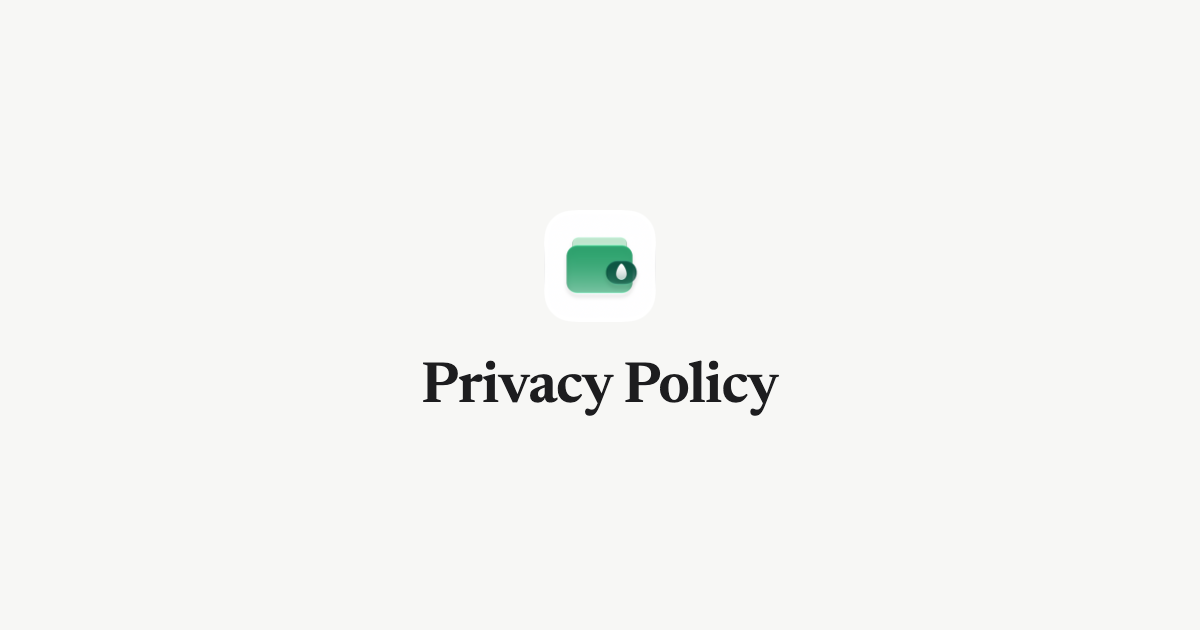
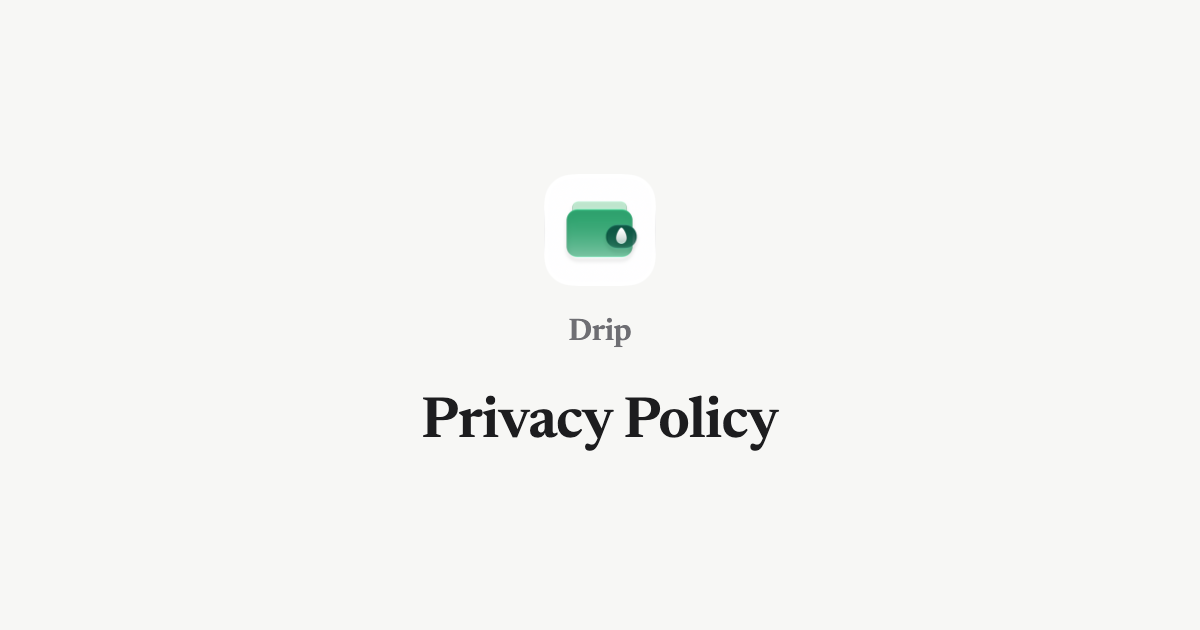
Version asset URLs, make font subsets reproducible, name the app on share cards
Stylesheet and font URLs now carry a content hash: GitHub Pages caches them for 10 minutes,
and a stale subset made new heading characters fall back to the system font. Font subsets
keep the source timestamp so identical input builds byte-identical files. Share cards show
the app name under the icon; the guide cards said only "Guide".

Changed region(s): [[0.3392, 0.573, 0.6475, 0.7238], [0.4625, 0.3016, 0.555, 0.4825], [0.4625, 0.5127, 0.5242, 0.5429]]

diff --git a/zh-Hans/guide/index.html b/zh-Hans/guide/index.html
@@ -6,5 +6,5 @@
 <meta property="og:type" content="website"><meta property="og:site_name" content="点滴记账"><meta property="og:locale" content="zh_CN"><meta property="og:title" content="使用指南 – 点滴记账"><meta property="og:description" content="模板、图标快捷菜单、小组件等功能的设置方法。"><meta property="og:url" content="https://drip.damao.io/zh-Hans/guide/"><meta property="og:image" content="https://drip.damao.io/assets/img/og-zh-Hans-guide.png"><meta property="og:image:width" content="1200"><meta property="og:image:height" content="630"><meta property="og:image:alt" content="使用指南 – 点滴记账">
 <meta name="twitter:card" content="summary_large_image"><meta name="twitter:title" content="使用指南 – 点滴记账"><meta name="twitter:description" content="模板、图标快捷菜单、小组件等功能的设置方法。"><meta name="twitter:image" content="https://drip.damao.io/assets/img/og-zh-Hans-guide.png">
 <meta name="theme-color" content="#F7F7F5" media="(prefers-color-scheme: light)"><meta name="theme-color" content="#141414" media="(prefers-color-scheme: dark)">
-<link rel="icon" href="/favicon.ico" sizes="any"><link rel="icon" href="/favicon-32.png" type="image/png" sizes="32x32"><link rel="apple-touch-icon" href="/apple-touch-icon.png"><link rel="stylesheet" href="/style.css">
-<link rel="stylesheet" href="/assets/fonts/zh-guide.css"></head><body><nav class="nav container"><a class="brand" href="/zh-Hans/"><img src="/assets/img/icon@2x.png" width="32" height="32" alt="">点滴记账</a><a class="nav-secondary" href="/zh-Hans/guide/">指南</a><a class="nav-secondary" href="/zh-Hans/#support">帮助</a><a href="/guide/" lang="en">English</a></nav><main class="guide"><h1>使用指南</h1><ul class="toc"><li><a href="#templates">模板</a></li><li><a href="#app-icon">App图标</a></li><li><a href="#widgets">小组件</a></li><li><a href="#keypad">键盘模式</a></li><li><a href="#reminder">记账提醒</a></li><li><a href="#sync">iCloud同步</a></li><li><a href="#export">导出数据</a></li><li><a href="#privacy">锁定点滴记账，隐藏金额</a></li></ul><section id="templates"><h2>模板</h2><p>打开 设置 › 模板，轻点 + 新建，再轻点 ✓ 保存。轻点模板可以编辑；轻点「编辑」后拖动可调整顺序。记账时，轻点明细页顶部的模板按钮即可<span class="keep">使用。</span></p><picture><source type="image/webp" srcset="/assets/screens/zh-Hans/04-templates@1x.webp 1x, /assets/screens/zh-Hans/04-templates@2x.webp 2x"><img class="phone" src="/assets/screens/zh-Hans/04-templates@1x.png" srcset="/assets/screens/zh-Hans/04-templates@1x.png 1x, /assets/screens/zh-Hans/04-templates@2x.png 2x" width="300" height="652" alt="模板" loading="lazy" decoding="async"></picture></section><section id="app-icon"><h2>App图标</h2><p>长按点滴记账应用图标，选择「记一笔」或前三个模板之一。在 设置 › 模板 中调整顺序，可以更换显示的<span class="keep">模板。</span></p></section><section id="widgets"><h2>小组件</h2><p>长按主屏幕空白处，轻点 编辑 › 添加小组件，搜索点滴记账，选择「分类记账」或「模板记账」，然后轻点「添加小组件」。在 设置 › 分类小组件 中选择分类。要在锁定屏幕添加「快速记账」，长按锁定屏幕，轻点 自定 › 锁定屏幕 › 添加小组件，然后选择点滴记账的「快速<span class="keep">记账」。</span></p><picture><source type="image/webp" srcset="/assets/screens/zh-Hans/08-widgets@1x.webp 1x, /assets/screens/zh-Hans/08-widgets@2x.webp 2x"><img class="phone" src="/assets/screens/zh-Hans/08-widgets@1x.png" srcset="/assets/screens/zh-Hans/08-widgets@1x.png 1x, /assets/screens/zh-Hans/08-widgets@2x.png 2x" width="300" height="652" alt="小组件" loading="lazy" decoding="async"></picture></section><section id="keypad"><h2>键盘模式</h2><p>打开 设置 › 键盘模式，选择「默认」或「效率」。「默认」像计算器一样输入小数点；「效率」从货币的最小单位开始输入，00可补两<span class="keep">个零。</span></p></section><section id="reminder"><h2>记账提醒</h2><p>打开 设置 › 记账提醒，开启「记账提醒」并设置「时间」。开启「当天已记账则跳过」，当天已有记录时就不会<span class="keep">提醒。</span></p></section><section id="sync"><h2>iCloud同步</h2><p>在登录同一Apple账户的每台iPhone上，打开 设置 › 隐私与同步 › iCloud同步。如果提示登录，请先在系统“设置”中登录<span class="keep">iCloud。</span></p></section><section id="export"><h2>导出数据</h2><p>前往 设置 › 隐私与同步 › 导出数据。所有记录会导出为CSV文件，可通过系统分享菜单<span class="keep">发送。</span></p></section><section id="privacy"><h2>锁定点滴记账，隐藏金额</h2><p>打开 设置 › 隐私与同步，开启「面容ID锁定」以锁定点滴记账。开启「小组件隐藏金额」可隐藏小组件中的<span class="keep">金额。</span></p><picture><source type="image/webp" srcset="/assets/screens/zh-Hans/07-privacy@1x.webp 1x, /assets/screens/zh-Hans/07-privacy@2x.webp 2x"><img class="phone" src="/assets/screens/zh-Hans/07-privacy@1x.png" srcset="/assets/screens/zh-Hans/07-privacy@1x.png 1x, /assets/screens/zh-Hans/07-privacy@2x.png 2x" width="300" height="652" alt="锁定点滴记账，隐藏金额" loading="lazy" decoding="async"></picture></section></main><footer class="footer container"><p><a href="/zh-Hans/guide/">指南</a> · <a href="/privacy.html">隐私政策</a> · © 2026 Xiaoyu Guan</p><a href="/guide/" lang="en">English</a></footer></body></html>
+<link rel="icon" href="/favicon.ico" sizes="any"><link rel="icon" href="/favicon-32.png" type="image/png" sizes="32x32"><link rel="apple-touch-icon" href="/apple-touch-icon.png"><link rel="stylesheet" href="/style.css?v=4f2c0e99f6">
+<link rel="stylesheet" href="/assets/fonts/zh-guide.css?v=f2eab0a8b2"></head><body><nav class="nav container"><a class="brand" href="/zh-Hans/"><img src="/assets/img/icon@2x.png" width="32" height="32" alt="">点滴记账</a><a class="nav-secondary" href="/zh-Hans/guide/">指南</a><a class="nav-secondary" href="/zh-Hans/#support">帮助</a><a href="/guide/" lang="en">English</a></nav><main class="guide"><h1>使用指南</h1><ul class="toc"><li><a href="#templates">模板</a></li><li><a href="#app-icon">App图标</a></li><li><a href="#widgets">小组件</a></li><li><a href="#keypad">键盘模式</a></li><li><a href="#reminder">记账提醒</a></li><li><a href="#sync">iCloud同步</a></li><li><a href="#export">导出数据</a></li><li><a href="#privacy">锁定点滴记账，隐藏金额</a></li></ul><section id="templates"><h2>模板</h2><p>打开 设置 › 模板，轻点 + 新建，再轻点 ✓ 保存。轻点模板可以编辑；轻点「编辑」后拖动可调整顺序。记账时，轻点明细页顶部的模板按钮即可<span class="keep">使用。</span></p><picture><source type="image/webp" srcset="/assets/screens/zh-Hans/04-templates@1x.webp 1x, /assets/screens/zh-Hans/04-templates@2x.webp 2x"><img class="phone" src="/assets/screens/zh-Hans/04-templates@1x.png" srcset="/assets/screens/zh-Hans/04-templates@1x.png 1x, /assets/screens/zh-Hans/04-templates@2x.png 2x" width="300" height="652" alt="模板" loading="lazy" decoding="async"></picture></section><section id="app-icon"><h2>App图标</h2><p>长按点滴记账应用图标，选择「记一笔」或前三个模板之一。在 设置 › 模板 中调整顺序，可以更换显示的<span class="keep">模板。</span></p></section><section id="widgets"><h2>小组件</h2><p>长按主屏幕空白处，轻点 编辑 › 添加小组件，搜索点滴记账，选择「分类记账」或「模板记账」，然后轻点「添加小组件」。在 设置 › 分类小组件 中选择分类。要在锁定屏幕添加「快速记账」，长按锁定屏幕，轻点 自定 › 锁定屏幕 › 添加小组件，然后选择点滴记账的「快速<span class="keep">记账」。</span></p><picture><source type="image/webp" srcset="/assets/screens/zh-Hans/08-widgets@1x.webp 1x, /assets/screens/zh-Hans/08-widgets@2x.webp 2x"><img class="phone" src="/assets/screens/zh-Hans/08-widgets@1x.png" srcset="/assets/screens/zh-Hans/08-widgets@1x.png 1x, /assets/screens/zh-Hans/08-widgets@2x.png 2x" width="300" height="652" alt="小组件" loading="lazy" decoding="async"></picture></section><section id="keypad"><h2>键盘模式</h2><p>打开 设置 › 键盘模式，选择「默认」或「效率」。「默认」像计算器一样输入小数点；「效率」从货币的最小单位开始输入，00可补两<span class="keep">个零。</span></p></section><section id="reminder"><h2>记账提醒</h2><p>打开 设置 › 记账提醒，开启「记账提醒」并设置「时间」。开启「当天已记账则跳过」，当天已有记录时就不会<span class="keep">提醒。</span></p></section><section id="sync"><h2>iCloud同步</h2><p>在登录同一Apple账户的每台iPhone上，打开 设置 › 隐私与同步 › iCloud同步。如果提示登录，请先在系统“设置”中登录<span class="keep">iCloud。</span></p></section><section id="export"><h2>导出数据</h2><p>前往 设置 › 隐私与同步 › 导出数据。所有记录会导出为CSV文件，可通过系统分享菜单<span class="keep">发送。</span></p></section><section id="privacy"><h2>锁定点滴记账，隐藏金额</h2><p>打开 设置 › 隐私与同步，开启「面容ID锁定」以锁定点滴记账。开启「小组件隐藏金额」可隐藏小组件中的<span class="keep">金额。</span></p><picture><source type="image/webp" srcset="/assets/screens/zh-Hans/07-privacy@1x.webp 1x, /assets/screens/zh-Hans/07-privacy@2x.webp 2x"><img class="phone" src="/assets/screens/zh-Hans/07-privacy@1x.png" srcset="/assets/screens/zh-Hans/07-privacy@1x.png 1x, /assets/screens/zh-Hans/07-privacy@2x.png 2x" width="300" height="652" alt="锁定点滴记账，隐藏金额" loading="lazy" decoding="async"></picture></section></main><footer class="footer container"><p><a href="/zh-Hans/guide/">指南</a> · <a href="/privacy.html">隐私政策</a> · © 2026 Xiaoyu Guan</p><a href="/guide/" lang="en">English</a></footer></body></html>

diff --git a/zh-Hans/index.html b/zh-Hans/index.html
@@ -6,8 +6,8 @@
 <meta property="og:type" content="website"><meta property="og:site_name" content="点滴记账"><meta property="og:locale" content="zh_CN"><meta property="og:title" content="点滴记账 – 简单账本"><meta property="og:description" content="轻点两下，完成记账。无需注册，没有广告。"><meta property="og:url" content="https://drip.damao.io/zh-Hans/"><meta property="og:image" content="https://drip.damao.io/assets/img/og-zh-Hans-landing.png"><meta property="og:image:width" content="1200"><meta property="og:image:height" content="630"><meta property="og:image:alt" content="点滴记账 – 简单账本">
 <meta name="twitter:card" content="summary_large_image"><meta name="twitter:title" content="点滴记账 – 简单账本"><meta name="twitter:description" content="轻点两下，完成记账。无需注册，没有广告。"><meta name="twitter:image" content="https://drip.damao.io/assets/img/og-zh-Hans-landing.png">
 <meta name="theme-color" content="#F7F7F5" media="(prefers-color-scheme: light)"><meta name="theme-color" content="#141414" media="(prefers-color-scheme: dark)">
-<link rel="icon" href="/favicon.ico" sizes="any"><link rel="icon" href="/favicon-32.png" type="image/png" sizes="32x32"><link rel="apple-touch-icon" href="/apple-touch-icon.png"><link rel="stylesheet" href="/style.css">
-<link rel="stylesheet" href="/assets/fonts/zh-landing.css"></head><body><nav class="nav container"><a class="brand" href="/zh-Hans/"><img src="/assets/img/icon@2x.png" width="32" height="32" alt="">点滴记账</a><a class="nav-secondary" href="/zh-Hans/guide/">指南</a><a class="nav-secondary" href="#support">帮助</a><a href="/" lang="en">English</a></nav><main><section class="hero"><h1>清爽、高效的iPhone记账应用</h1><p class="sub">轻点两下，完成记账。无需注册，没有<span class="keep">广告<span class="hang-cjk">。</span></span></p><p class="capsule">即将登陆App Store</p></section>
+<link rel="icon" href="/favicon.ico" sizes="any"><link rel="icon" href="/favicon-32.png" type="image/png" sizes="32x32"><link rel="apple-touch-icon" href="/apple-touch-icon.png"><link rel="stylesheet" href="/style.css?v=4f2c0e99f6">
+<link rel="stylesheet" href="/assets/fonts/zh-landing.css?v=53eb526d9e"></head><body><nav class="nav container"><a class="brand" href="/zh-Hans/"><img src="/assets/img/icon@2x.png" width="32" height="32" alt="">点滴记账</a><a class="nav-secondary" href="/zh-Hans/guide/">指南</a><a class="nav-secondary" href="#support">帮助</a><a href="/" lang="en">English</a></nav><main><section class="hero"><h1>清爽、高效的iPhone记账应用</h1><p class="sub">轻点两下，完成记账。无需注册，没有<span class="keep">广告<span class="hang-cjk">。</span></span></p><p class="capsule">即将登陆App Store</p></section>
 <div class="gallery" tabindex="0"><figure><picture><source type="image/webp" srcset="/assets/screens/zh-Hans/01-entry@1x.webp 1x, /assets/screens/zh-Hans/01-entry@2x.webp 2x"><img class="phone" src="/assets/screens/zh-Hans/01-entry@1x.png" srcset="/assets/screens/zh-Hans/01-entry@1x.png 1x, /assets/screens/zh-Hans/01-entry@2x.png 2x" width="300" height="652" alt="输入金额" loading="eager" decoding="async"></picture><figcaption>输入金额</figcaption></figure><figure><picture><source type="image/webp" srcset="/assets/screens/zh-Hans/02-ledger@1x.webp 1x, /assets/screens/zh-Hans/02-ledger@2x.webp 2x"><img class="phone" src="/assets/screens/zh-Hans/02-ledger@1x.png" srcset="/assets/screens/zh-Hans/02-ledger@1x.png 1x, /assets/screens/zh-Hans/02-ledger@2x.png 2x" width="300" height="652" alt="按月查看" loading="eager" decoding="async"></picture><figcaption>按月查看</figcaption></figure><figure><picture><source type="image/webp" srcset="/assets/screens/zh-Hans/03-stats@1x.webp 1x, /assets/screens/zh-Hans/03-stats@2x.webp 2x"><img class="phone" src="/assets/screens/zh-Hans/03-stats@1x.png" srcset="/assets/screens/zh-Hans/03-stats@1x.png 1x, /assets/screens/zh-Hans/03-stats@2x.png 2x" width="300" height="652" alt="钱花去哪" loading="eager" decoding="async"></picture><figcaption>钱花去哪</figcaption></figure><figure><picture><source type="image/webp" srcset="/assets/screens/zh-Hans/04-templates@1x.webp 1x, /assets/screens/zh-Hans/04-templates@2x.webp 2x"><img class="phone" src="/assets/screens/zh-Hans/04-templates@1x.png" srcset="/assets/screens/zh-Hans/04-templates@1x.png 1x, /assets/screens/zh-Hans/04-templates@2x.png 2x" width="300" height="652" alt="常用模板" loading="eager" decoding="async"></picture><figcaption>常用模板</figcaption></figure><figure><picture><source type="image/webp" srcset="/assets/screens/zh-Hans/08-widgets@1x.webp 1x, /assets/screens/zh-Hans/08-widgets@2x.webp 2x"><img class="phone" src="/assets/screens/zh-Hans/08-widgets@1x.png" srcset="/assets/screens/zh-Hans/08-widgets@1x.png 1x, /assets/screens/zh-Hans/08-widgets@2x.png 2x" width="300" height="652" alt="在主屏幕记账" loading="eager" decoding="async"></picture><figcaption>在主屏幕记账</figcaption></figure></div>
 <div class="features container"><section class="feature"><div class="feature-copy"><h2>在主屏幕上记账</h2><p>长按点滴记账图标，可以直接选用前三个模板；也可以在「分类记账」小组件里点一个分类。打开时，内容已经填好。锁定屏幕上的「快速记账」可以直接开始记<span class="keep">一笔。</span></p><a href="/zh-Hans/guide/#app-icon">设置方法</a></div><picture><source type="image/webp" srcset="/assets/screens/zh-Hans/08-widgets@1x.webp 1x, /assets/screens/zh-Hans/08-widgets@2x.webp 2x"><img class="phone" src="/assets/screens/zh-Hans/08-widgets@1x.png" srcset="/assets/screens/zh-Hans/08-widgets@1x.png 1x, /assets/screens/zh-Hans/08-widgets@2x.png 2x" width="300" height="652" alt="在主屏幕上记账" loading="lazy" decoding="async"></picture></section><section class="feature"><div class="feature-copy"><h2>常买的东西，存成模板</h2><p>金额、分类、账户和备注存一次，下次点一下<span class="keep">就好。</span></p></div><picture><source type="image/webp" srcset="/assets/screens/zh-Hans/04-templates@1x.webp 1x, /assets/screens/zh-Hans/04-templates@2x.webp 2x"><img class="phone" src="/assets/screens/zh-Hans/04-templates@1x.png" srcset="/assets/screens/zh-Hans/04-templates@1x.png 1x, /assets/screens/zh-Hans/04-templates@2x.png 2x" width="300" height="652" alt="常买的东西，存成模板" loading="lazy" decoding="async"></picture></section><section class="feature"><div class="feature-copy"><h2>看清钱花在哪</h2><p>明细按天分组，顶部是本月合计。统计页展示趋势和分类<span class="keep">占比。</span></p></div><picture><source type="image/webp" srcset="/assets/screens/zh-Hans/03-stats@1x.webp 1x, /assets/screens/zh-Hans/03-stats@2x.webp 2x"><img class="phone" src="/assets/screens/zh-Hans/03-stats@1x.png" srcset="/assets/screens/zh-Hans/03-stats@1x.png 1x, /assets/screens/zh-Hans/03-stats@2x.png 2x" width="300" height="652" alt="看清钱花在哪" loading="lazy" decoding="async"></picture></section><section class="feature"><div class="feature-copy"><h2>账户管理，井井有条</h2><p>储蓄卡、信用卡和现金账户，可以互相转账。信用卡按欠款<span class="keep">计算。</span></p></div><picture><source type="image/webp" srcset="/assets/screens/zh-Hans/05-accounts@1x.webp 1x, /assets/screens/zh-Hans/05-accounts@2x.webp 2x"><img class="phone" src="/assets/screens/zh-Hans/05-accounts@1x.png" srcset="/assets/screens/zh-Hans/05-accounts@1x.png 1x, /assets/screens/zh-Hans/05-accounts@2x.png 2x" width="300" height="652" alt="账户管理，井井有条" loading="lazy" decoding="async"></picture></section><section class="feature"><div class="feature-copy"><h2>数据只属于你</h2><p>无需注册，没有广告，也没有服务器。账本加密保存在你的iPhone上；开启同步后，只经过你自己的iCloud。还可以用面容ID锁定点滴记账，或把全部记录导出为CSV<span class="keep">文件。</span></p></div><picture><source type="image/webp" srcset="/assets/screens/zh-Hans/07-privacy@1x.webp 1x, /assets/screens/zh-Hans/07-privacy@2x.webp 2x"><img class="phone" src="/assets/screens/zh-Hans/07-privacy@1x.png" srcset="/assets/screens/zh-Hans/07-privacy@1x.png 1x, /assets/screens/zh-Hans/07-privacy@2x.png 2x" width="300" height="652" alt="数据只属于你" loading="lazy" decoding="async"></picture></section></div>
 <section class="closing"><img src="/assets/img/icon@2x.png" width="96" height="96" alt=""><p class="capsule">即将登陆App Store</p><p>免费，适用于iOS 26及以上的<span class="keep">iPhone<span class="hang-cjk">。</span></span></p><p class="languages">English · 简体中文 · 繁體中文 · Español · Português · Français · Deutsch · Русский</p></section>

diff --git a/index.html b/index.html
@@ -6,7 +6,7 @@
 <meta property="og:type" content="website"><meta property="og:site_name" content="Drip"><meta property="og:locale" content="en_US"><meta property="og:title" content="Drip – Expense Tracker for iPhone"><meta property="og:description" content="Log an expense in two taps. No account, no ads."><meta property="og:url" content="https://drip.damao.io/"><meta property="og:image" content="https://drip.damao.io/assets/img/og-en-landing.png"><meta property="og:image:width" content="1200"><meta property="og:image:height" content="630"><meta property="og:image:alt" content="Drip – Expense Tracker for iPhone">
 <meta name="twitter:card" content="summary_large_image"><meta name="twitter:title" content="Drip – Expense Tracker for iPhone"><meta name="twitter:description" content="Log an expense in two taps. No account, no ads."><meta name="twitter:image" content="https://drip.damao.io/assets/img/og-en-landing.png">
 <meta name="theme-color" content="#F7F7F5" media="(prefers-color-scheme: light)"><meta name="theme-color" content="#141414" media="(prefers-color-scheme: dark)">
-<link rel="icon" href="/favicon.ico" sizes="any"><link rel="icon" href="/favicon-32.png" type="image/png" sizes="32x32"><link rel="apple-touch-icon" href="/apple-touch-icon.png"><link rel="stylesheet" href="/style.css">
+<link rel="icon" href="/favicon.ico" sizes="any"><link rel="icon" href="/favicon-32.png" type="image/png" sizes="32x32"><link rel="apple-touch-icon" href="/apple-touch-icon.png"><link rel="stylesheet" href="/style.css?v=4f2c0e99f6">
 </head><body><nav class="nav container"><a class="brand" href="/"><img src="/assets/img/icon@2x.png" width="32" height="32" alt="">Drip</a><a class="nav-secondary" href="/guide/">Guide</a><a class="nav-secondary" href="#support">Support</a><a href="/zh-Hans/" lang="zh-Hans">中文</a></nav><main><section class="hero"><h1>A clean, efficient expense tracker for iPhone<span class="hang-latin">.</span></h1><p class="sub">Log an expense in two taps. No account, no ads<span class="hang-latin">.</span></p><p class="capsule">Coming soon to the App Store</p></section>
 <div class="gallery" tabindex="0"><figure><picture><source type="image/webp" srcset="/assets/screens/en/01-entry@1x.webp 1x, /assets/screens/en/01-entry@2x.webp 2x"><img class="phone" src="/assets/screens/en/01-entry@1x.png" srcset="/assets/screens/en/01-entry@1x.png 1x, /assets/screens/en/01-entry@2x.png 2x" width="300" height="652" alt="Enter an amount" loading="eager" decoding="async"></picture><figcaption>Enter an amount</figcaption></figure><figure><picture><source type="image/webp" srcset="/assets/screens/en/02-ledger@1x.webp 1x, /assets/screens/en/02-ledger@2x.webp 2x"><img class="phone" src="/assets/screens/en/02-ledger@1x.png" srcset="/assets/screens/en/02-ledger@1x.png 1x, /assets/screens/en/02-ledger@2x.png 2x" width="300" height="652" alt="See the month" loading="eager" decoding="async"></picture><figcaption>See the month</figcaption></figure><figure><picture><source type="image/webp" srcset="/assets/screens/en/03-stats@1x.webp 1x, /assets/screens/en/03-stats@2x.webp 2x"><img class="phone" src="/assets/screens/en/03-stats@1x.png" srcset="/assets/screens/en/03-stats@1x.png 1x, /assets/screens/en/03-stats@2x.png 2x" width="300" height="652" alt="Where it went" loading="eager" decoding="async"></picture><figcaption>Where it went</figcaption></figure><figure><picture><source type="image/webp" srcset="/assets/screens/en/04-templates@1x.webp 1x, /assets/screens/en/04-templates@2x.webp 2x"><img class="phone" src="/assets/screens/en/04-templates@1x.png" srcset="/assets/screens/en/04-templates@1x.png 1x, /assets/screens/en/04-templates@2x.png 2x" width="300" height="652" alt="Templates for the usual" loading="eager" decoding="async"></picture><figcaption>Templates for the usual</figcaption></figure><figure><picture><source type="image/webp" srcset="/assets/screens/en/08-widgets@1x.webp 1x, /assets/screens/en/08-widgets@2x.webp 2x"><img class="phone" src="/assets/screens/en/08-widgets@1x.png" srcset="/assets/screens/en/08-widgets@1x.png 1x, /assets/screens/en/08-widgets@2x.png 2x" width="300" height="652" alt="Log from the Home Screen" loading="eager" decoding="async"></picture><figcaption>Log from the Home Screen</figcaption></figure></div>
 <div class="features container"><section class="feature"><div class="feature-copy"><h2>Log it from your Home Screen</h2><p>Touch and hold the Drip icon to pick one of your first three templates, or tap a category in the Quick Categories widget. The entry opens already filled in. On the Lock Screen, Quick Add starts a new one.</p><a href="/guide/#app-icon">How to set it up</a></div><picture><source type="image/webp" srcset="/assets/screens/en/08-widgets@1x.webp 1x, /assets/screens/en/08-widgets@2x.webp 2x"><img class="phone" src="/assets/screens/en/08-widgets@1x.png" srcset="/assets/screens/en/08-widgets@1x.png 1x, /assets/screens/en/08-widgets@2x.png 2x" width="300" height="652" alt="Log it from your Home Screen" loading="lazy" decoding="async"></picture></section><section class="feature"><div class="feature-copy"><h2>Templates for what you buy often</h2><p>Save the amount, category, account and note once. Next time it's one tap.</p></div><picture><source type="image/webp" srcset="/assets/screens/en/04-templates@1x.webp 1x, /assets/screens/en/04-templates@2x.webp 2x"><img class="phone" src="/assets/screens/en/04-templates@1x.png" srcset="/assets/screens/en/04-templates@1x.png 1x, /assets/screens/en/04-templates@2x.png 2x" width="300" height="652" alt="Templates for what you buy often" loading="lazy" decoding="async"></picture></section><section class="feature"><div class="feature-copy"><h2>See where it goes</h2><p>The ledger groups entries by day, with the month's total on top. Stats show the trend and the split by category.</p></div><picture><source type="image/webp" srcset="/assets/screens/en/03-stats@1x.webp 1x, /assets/screens/en/03-stats@2x.webp 2x"><img class="phone" src="/assets/screens/en/03-stats@1x.png" srcset="/assets/screens/en/03-stats@1x.png 1x, /assets/screens/en/03-stats@2x.png 2x" width="300" height="652" alt="See where it goes" loading="lazy" decoding="async"></picture></section><section class="feature"><div class="feature-copy"><h2>Accounts, neatly organized</h2><p>Debit, credit and cash accounts, with transfers between them. A credit card counts as what you owe.</p></div><picture><source type="image/webp" srcset="/assets/screens/en/05-accounts@1x.webp 1x, /assets/screens/en/05-accounts@2x.webp 2x"><img class="phone" src="/assets/screens/en/05-accounts@1x.png" srcset="/assets/screens/en/05-accounts@1x.png 1x, /assets/screens/en/05-accounts@2x.png 2x" width="300" height="652" alt="Accounts, neatly organized" loading="lazy" decoding="async"></picture></section><section class="feature"><div class="feature-copy"><h2>Your data stays yours</h2><p>No account, no ads, no servers. Your ledger is encrypted on your iPhone, and sync, if you turn it on, goes through your own iCloud. Lock Drip with Face ID, or export everything as a CSV file.</p></div><picture><source type="image/webp" srcset="/assets/screens/en/07-privacy@1x.webp 1x, /assets/screens/en/07-privacy@2x.webp 2x"><img class="phone" src="/assets/screens/en/07-privacy@1x.png" srcset="/assets/screens/en/07-privacy@1x.png 1x, /assets/screens/en/07-privacy@2x.png 2x" width="300" height="652" alt="Your data stays yours" loading="lazy" decoding="async"></picture></section></div>

diff --git a/guide/index.html b/guide/index.html
@@ -6,5 +6,5 @@
 <meta property="og:type" content="website"><meta property="og:site_name" content="Drip"><meta property="og:locale" content="en_US"><meta property="og:title" content="Guide – Drip"><meta property="og:description" content="Set up templates, the app icon menu, widgets and more."><meta property="og:url" content="https://drip.damao.io/guide/"><meta property="og:image" content="https://drip.damao.io/assets/img/og-en-guide.png"><meta property="og:image:width" content="1200"><meta property="og:image:height" content="630"><meta property="og:image:alt" content="Guide – Drip">
 <meta name="twitter:card" content="summary_large_image"><meta name="twitter:title" content="Guide – Drip"><meta name="twitter:description" content="Set up templates, the app icon menu, widgets and more."><meta name="twitter:image" content="https://drip.damao.io/assets/img/og-en-guide.png">
 <meta name="theme-color" content="#F7F7F5" media="(prefers-color-scheme: light)"><meta name="theme-color" content="#141414" media="(prefers-color-scheme: dark)">
-<link rel="icon" href="/favicon.ico" sizes="any"><link rel="icon" href="/favicon-32.png" type="image/png" sizes="32x32"><link rel="apple-touch-icon" href="/apple-touch-icon.png"><link rel="stylesheet" href="/style.css">
+<link rel="icon" href="/favicon.ico" sizes="any"><link rel="icon" href="/favicon-32.png" type="image/png" sizes="32x32"><link rel="apple-touch-icon" href="/apple-touch-icon.png"><link rel="stylesheet" href="/style.css?v=4f2c0e99f6">
 </head><body><nav class="nav container"><a class="brand" href="/"><img src="/assets/img/icon@2x.png" width="32" height="32" alt="">Drip</a><a class="nav-secondary" href="/guide/">Guide</a><a class="nav-secondary" href="/#support">Support</a><a href="/zh-Hans/guide/" lang="zh-Hans">中文</a></nav><main class="guide"><h1>Guide</h1><ul class="toc"><li><a href="#templates">Templates</a></li><li><a href="#app-icon">App icon</a></li><li><a href="#widgets">Widgets</a></li><li><a href="#keypad">Keypad Mode</a></li><li><a href="#reminder">Daily Reminder</a></li><li><a href="#sync">iCloud Sync</a></li><li><a href="#export">Export Data</a></li><li><a href="#privacy">Lock Drip and hide amounts</a></li></ul><section id="templates"><h2>Templates</h2><p>Open Settings › Templates and tap + to create one, then tap ✓ to save. Tap a template to edit it, or tap Edit and drag to reorder. To use one, tap the Templates button at the top of Ledger.</p><picture><source type="image/webp" srcset="/assets/screens/en/04-templates@1x.webp 1x, /assets/screens/en/04-templates@2x.webp 2x"><img class="phone" src="/assets/screens/en/04-templates@1x.png" srcset="/assets/screens/en/04-templates@1x.png 1x, /assets/screens/en/04-templates@2x.png 2x" width="300" height="652" alt="Templates" loading="lazy" decoding="async"></picture></section><section id="app-icon"><h2>App icon</h2><p>Touch and hold the Drip app icon to choose New Entry or one of your first three templates. Reorder templates in Settings › Templates to change which ones appear.</p></section><section id="widgets"><h2>Widgets</h2><p>Touch and hold the Home Screen, tap Edit › Add Widget, search for Drip, then choose Quick Categories or Quick Templates and tap Add Widget. Choose the categories in Settings › Category Widget. To add Quick Add to the Lock Screen, touch and hold the Lock Screen, tap Customize › Lock Screen › Add Widgets, then choose Drip’s Quick Add.</p><picture><source type="image/webp" srcset="/assets/screens/en/08-widgets@1x.webp 1x, /assets/screens/en/08-widgets@2x.webp 2x"><img class="phone" src="/assets/screens/en/08-widgets@1x.png" srcset="/assets/screens/en/08-widgets@1x.png 1x, /assets/screens/en/08-widgets@2x.png 2x" width="300" height="652" alt="Widgets" loading="lazy" decoding="async"></picture></section><section id="keypad"><h2>Keypad Mode</h2><p>Open Settings › Keypad Mode and choose Default or Efficient. Default uses a decimal point like a calculator; Efficient starts at the smallest currency unit, and 00 adds two zeros.</p></section><section id="reminder"><h2>Daily Reminder</h2><p>Open Settings › Daily Reminder, turn on Daily Reminder and set Time. Turn on Skip If Already Recorded to skip reminders on days when you have already recorded an entry.</p></section><section id="sync"><h2>iCloud Sync</h2><p>Turn on iCloud Sync in Settings › Privacy &amp; Sync on each iPhone signed in to the same Apple Account. If Settings asks you to sign in, sign in to iCloud in the Settings app.</p></section><section id="export"><h2>Export Data</h2><p>Go to Settings › Privacy &amp; Sync › Export Data. All your entries are exported as a CSV file that you can share from the iOS share sheet.</p></section><section id="privacy"><h2>Lock Drip and hide amounts</h2><p>Open Settings › Privacy &amp; Sync and turn on Face ID Lock to lock Drip. Turn on Hide Amounts in Widgets to hide amounts in widgets.</p><picture><source type="image/webp" srcset="/assets/screens/en/07-privacy@1x.webp 1x, /assets/screens/en/07-privacy@2x.webp 2x"><img class="phone" src="/assets/screens/en/07-privacy@1x.png" srcset="/assets/screens/en/07-privacy@1x.png 1x, /assets/screens/en/07-privacy@2x.png 2x" width="300" height="652" alt="Lock Drip and hide amounts" loading="lazy" decoding="async"></picture></section></main><footer class="footer container"><p><a href="/guide/">Guide</a> · <a href="/privacy.html">Privacy Policy</a> · © 2026 Xiaoyu Guan</p><a href="/zh-Hans/guide/" lang="zh-Hans">中文</a></footer></body></html>

diff --git a/style.css b/style.css
@@ -1,4 +1,4 @@
-@font-face{font-family:Newsreader;src:url('/assets/fonts/newsreader-latin.woff2') format('woff2');font-weight:600;font-display:swap}
+@font-face{font-family:Newsreader;src:url('/assets/fonts/newsreader-latin.woff2?v=5d0d51a6af') format('woff2');font-weight:600;font-display:swap}
 :root{color-scheme:light dark;--bg:#F7F7F5;--text:#1D1D1F;--secondary:#6E6E73;--line:rgba(0,0,0,.1);--link:#0066CC;--phone:#1D1D1F;--head:ui-serif,"New York","Newsreader",serif}
 *{box-sizing:border-box}body{margin:0;background:var(--bg);color:var(--text);font:18px/1.55 -apple-system,BlinkMacSystemFont,"PingFang SC","Helvetica Neue",sans-serif;letter-spacing:0}a{color:var(--link);text-decoration:none}a:hover{text-decoration:underline}a:focus-visible,summary:focus-visible,.gallery:focus-visible{outline:2px solid var(--link);outline-offset:5px}h1,h2,h3,.brand{font-family:var(--head);font-weight:600;letter-spacing:-.005em}html[lang=zh-Hans]{--head:"Drip Serif SC",ui-serif,"New York","Newsreader",serif}html[lang=zh-Hans] :is(h1,h2,h3,.brand){font-feature-settings:"halt"}h1{font-size:clamp(34px,5vw,56px);line-height:1.12;margin:0 0 24px}h2{font-size:clamp(26px,3.4vw,40px);line-height:1.2;margin:0 0 20px}h3{line-height:1.25}p{margin:0 0 20px}.container{max-width:1228px;margin-inline:auto;padding-inline:24px}.nav{display:flex;align-items:center;gap:28px;padding-block:20px;font-size:15px}.nav a:not(.brand){color:var(--secondary)}.brand{display:flex;align-items:center;gap:10px;margin-right:auto;font-size:22px;color:var(--text)}.brand img{width:32px;height:32px}.hero{max-width:808px;padding:0 24px;margin:72px auto 0;text-align:center}.sub{font-size:19px;color:var(--secondary);margin-bottom:32px}.capsule{display:inline-block;background:#1D1D1F;color:white;font-size:16px;padding:12px 24px;border-radius:999px;margin:0;max-width:100%}.gallery{display:flex;gap:48px;overflow-x:auto;scroll-snap-type:x mandatory;scroll-padding-inline-start:max(24px,calc((100vw - 1180px)/2));padding:96px max(24px,calc((100vw - 1180px)/2));scrollbar-width:none}.gallery::-webkit-scrollbar{display:none}.gallery figure{flex:0 0 260px;margin:0;scroll-snap-align:start}.phone{display:block;width:100%;height:auto;border:6px solid var(--phone);border-radius:13.5% / 6.3%}picture{display:block}figcaption{font-size:15px;color:var(--secondary);text-align:center;margin-top:18px}.features{padding-top:24px}.feature{display:grid;grid-template-columns:minmax(0,480px) 280px;justify-content:space-around;gap:64px;align-items:center;margin-bottom:120px}.feature:nth-child(even){grid-template-columns:280px minmax(0,480px)}.feature:nth-child(even) .feature-copy{order:2}.feature p{color:var(--secondary)}.closing{text-align:center;max-width:808px;margin:0 auto 120px;padding:0 24px}.closing>img{display:block;width:96px;height:96px;margin:0 auto 28px}.closing .capsule{margin-bottom:24px}.closing p:not(.capsule){color:var(--secondary)}.languages{font-size:15px}.support{max-width:728px;margin:0 auto 100px;padding:0 24px}.faq{border:1px solid var(--line);border-radius:12px;margin:32px 0 24px;overflow:hidden}details+details{border-top:1px solid var(--line)}summary{list-style:none;cursor:pointer;padding:20px 44px 20px 20px;position:relative}summary::-webkit-details-marker{display:none}summary:after{content:"";position:absolute;right:22px;top:27px;width:7px;height:7px;border-right:1.5px solid currentColor;border-bottom:1.5px solid currentColor;transform:rotate(45deg)}details[open] summary:after{transform:rotate(225deg)}details p{padding:0 20px 20px;margin:0;color:var(--secondary)}.footer{border-top:1px solid var(--line);padding-block:26px;display:flex;justify-content:space-between;gap:24px;font-size:14px;color:var(--secondary)}.footer p{margin:0}.footer a{color:inherit}.guide{max-width:728px;padding:64px 24px 96px;margin:auto}.toc{padding-left:22px;margin:32px 0 64px}.toc li{margin:6px 0}.guide section{margin-top:64px;scroll-margin-top:24px}.guide section picture{width:240px;max-width:100%;margin:32px auto 0}.page{max-width:728px;margin:auto;padding:20px 24px}.page main{padding-block:64px}.page h2{margin-top:48px}.page .site{font-size:15px}.page footer{border-top:1px solid var(--line);padding-top:24px}.page p{overflow-wrap:break-word}
 @media(prefers-color-scheme:dark){:root{--bg:#141414;--text:#F5F5F7;--secondary:#A1A1A6;--line:rgba(255,255,255,.12);--link:#4DA3FF;--phone:#3A3A3C}.capsule{background:#F5F5F7;color:#1D1D1F}}

diff --git a/privacy.html b/privacy.html
@@ -7,7 +7,7 @@
 <meta property="og:type" content="website"><meta property="og:site_name" content="Drip"><meta property="og:locale" content="en_US"><meta property="og:title" content="Privacy Policy – Drip"><meta property="og:description" content="Drip doesn't collect any data."><meta property="og:url" content="https://drip.damao.io/privacy.html"><meta property="og:image" content="https://drip.damao.io/assets/img/og-en-privacy.png"><meta property="og:image:width" content="1200"><meta property="og:image:height" content="630"><meta property="og:image:alt" content="Privacy Policy – Drip">
 <meta name="twitter:card" content="summary_large_image"><meta name="twitter:title" content="Privacy Policy – Drip"><meta name="twitter:description" content="Drip doesn't collect any data."><meta name="twitter:image" content="https://drip.damao.io/assets/img/og-en-privacy.png">
 <meta name="theme-color" content="#F7F7F5" media="(prefers-color-scheme: light)"><meta name="theme-color" content="#141414" media="(prefers-color-scheme: dark)">
-<link rel="icon" href="/favicon.ico" sizes="any"><link rel="icon" href="/favicon-32.png" type="image/png" sizes="32x32"><link rel="apple-touch-icon" href="/apple-touch-icon.png"><link rel="stylesheet" href="/style.css">
+<link rel="icon" href="/favicon.ico" sizes="any"><link rel="icon" href="/favicon-32.png" type="image/png" sizes="32x32"><link rel="apple-touch-icon" href="/apple-touch-icon.png"><link rel="stylesheet" href="/style.css?v=4f2c0e99f6">
 </head>
 <body>
   <div class="page">

diff --git a/assets/fonts/zh-landing.css b/assets/fonts/zh-landing.css
@@ -1,1 +1,1 @@
-@font-face{font-family:"Drip Serif SC";src:url("/assets/fonts/zh-landing.woff2") format("woff2");font-weight:600;font-display:swap;unicode-range:U+3001,U+4E0A,U+4E1C,U+4E3B,U+4E70,U+4E8E,U+4E95,U+4F60,U+52A9,U+53EA,U+54EA,U+5728,U+5B58,U+5C4F,U+5C5E,U+5E2E,U+5E38,U+5E55,U+5E94,U+6210,U+6237,U+636E,U+6548,U+6570,U+6709,U+6761,U+677F,U+6A21,U+6E05,U+6EF4,U+70B9,U+723D,U+7406,U+7528,U+7684,U+770B,U+7BA1,U+82B1,U+897F,U+8BB0,U+8D26,U+94B1,U+9AD8,U+FF0C}
+@font-face{font-family:"Drip Serif SC";src:url("/assets/fonts/zh-landing.woff2?v=120a6d829c") format("woff2");font-weight:600;font-display:swap;unicode-range:U+3001,U+4E0A,U+4E1C,U+4E3B,U+4E70,U+4E8E,U+4E95,U+4F60,U+52A9,U+53EA,U+54EA,U+5728,U+5B58,U+5C4F,U+5C5E,U+5E2E,U+5E38,U+5E55,U+5E94,U+6210,U+6237,U+636E,U+6548,U+6570,U+6709,U+6761,U+677F,U+6A21,U+6E05,U+6EF4,U+70B9,U+723D,U+7406,U+7528,U+7684,U+770B,U+7BA1,U+82B1,U+897F,U+8BB0,U+8D26,U+94B1,U+9AD8,U+FF0C}

diff --git a/assets/fonts/zh-guide.css b/assets/fonts/zh-guide.css
@@ -1,1 +1,1 @@
-@font-face{font-family:"Drip Serif SC";src:url("/assets/fonts/zh-guide.woff2") format("woff2");font-weight:600;font-display:swap;unicode-range:U+4EF6,U+4F7F,U+51FA,U+5357,U+540C,U+56FE,U+5B9A,U+5BFC,U+5C0F,U+5F0F,U+6307,U+636E,U+63D0,U+6570,U+677F,U+6807,U+6A21,U+6B65,U+6EF4,U+70B9,U+7528,U+76D8,U+7EC4,U+85CF,U+8BB0,U+8D26,U+9192,U+91D1,U+9501,U+952E,U+9690,U+989D,U+FF0C}
+@font-face{font-family:"Drip Serif SC";src:url("/assets/fonts/zh-guide.woff2?v=80278030c8") format("woff2");font-weight:600;font-display:swap;unicode-range:U+4EF6,U+4F7F,U+51FA,U+5357,U+540C,U+56FE,U+5B9A,U+5BFC,U+5C0F,U+5F0F,U+6307,U+636E,U+63D0,U+6570,U+677F,U+6807,U+6A21,U+6B65,U+6EF4,U+70B9,U+7528,U+76D8,U+7EC4,U+85CF,U+8BB0,U+8D26,U+9192,U+91D1,U+9501,U+952E,U+9690,U+989D,U+FF0C}

diff --git a/tools/fonts.py b/tools/fonts.py
@@ -8,7 +8,8 @@ from fontTools.varLib.instancer import instantiateVariableFont
 
 
 def build(source, target, chars, axes):
-    font = instantiateVariableFont(TTFont(source), axes, inplace=True)
+    # Keep the source's head.modified so identical input gives byte-identical output.
+    font = instantiateVariableFont(TTFont(source, recalcTimestamp=False), axes, inplace=True)
     options = subset.Options()
     options.layout_features = ['*']  # Retain halt punctuation alternates.
     worker = subset.Subsetter(options=options)
